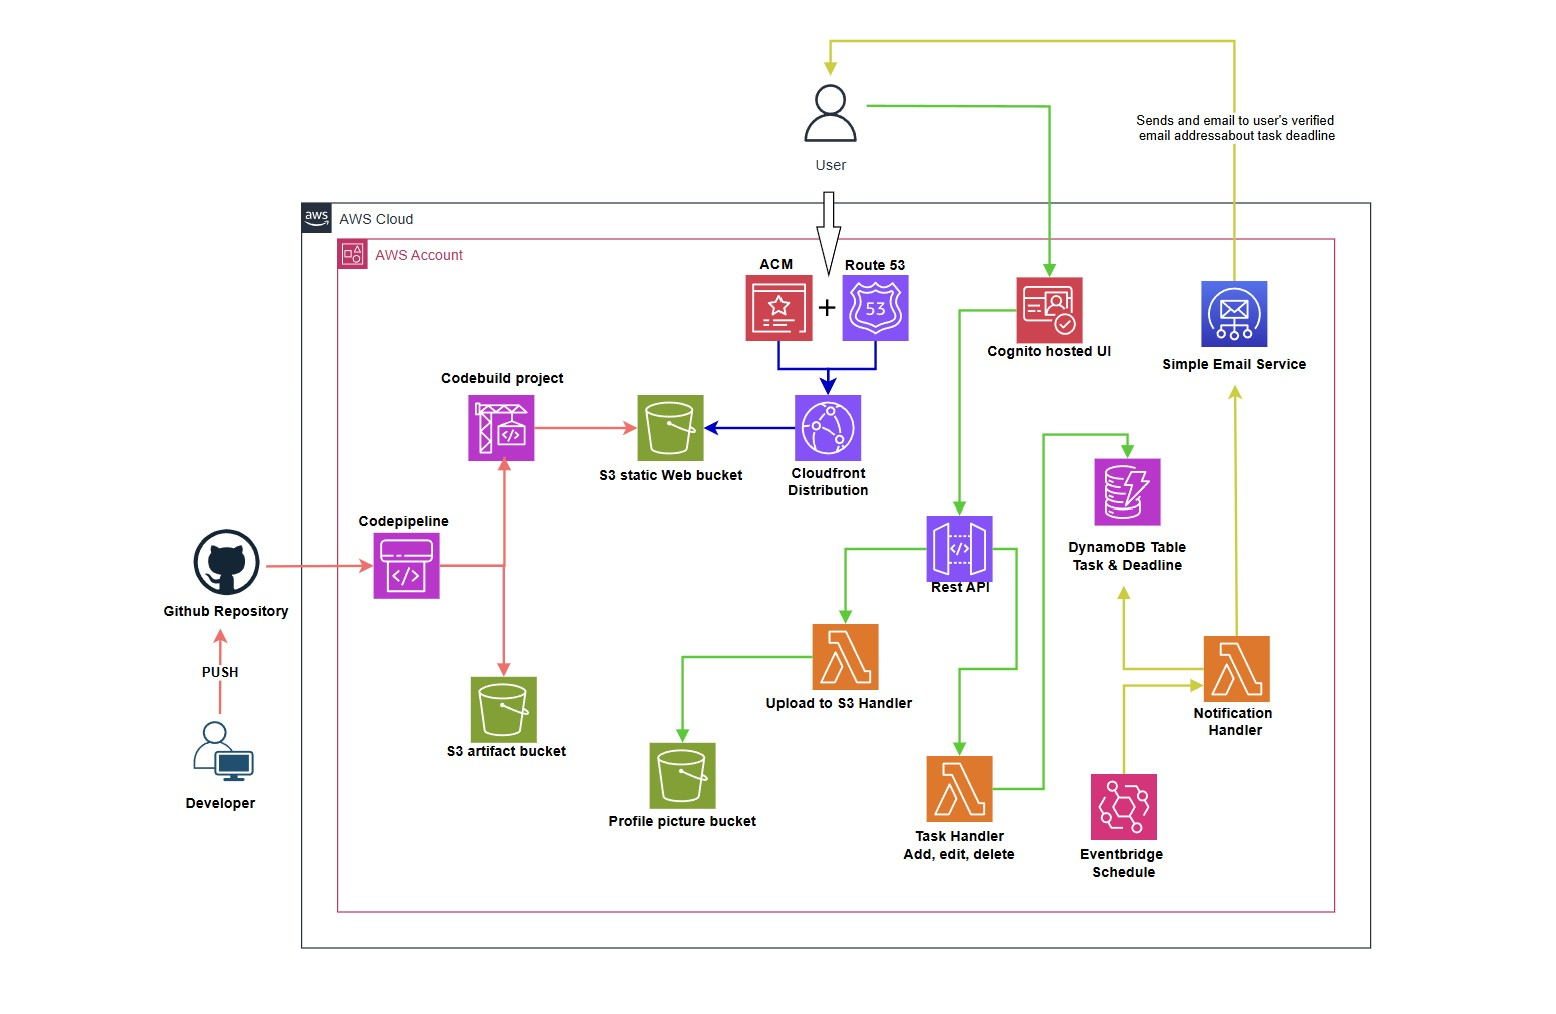
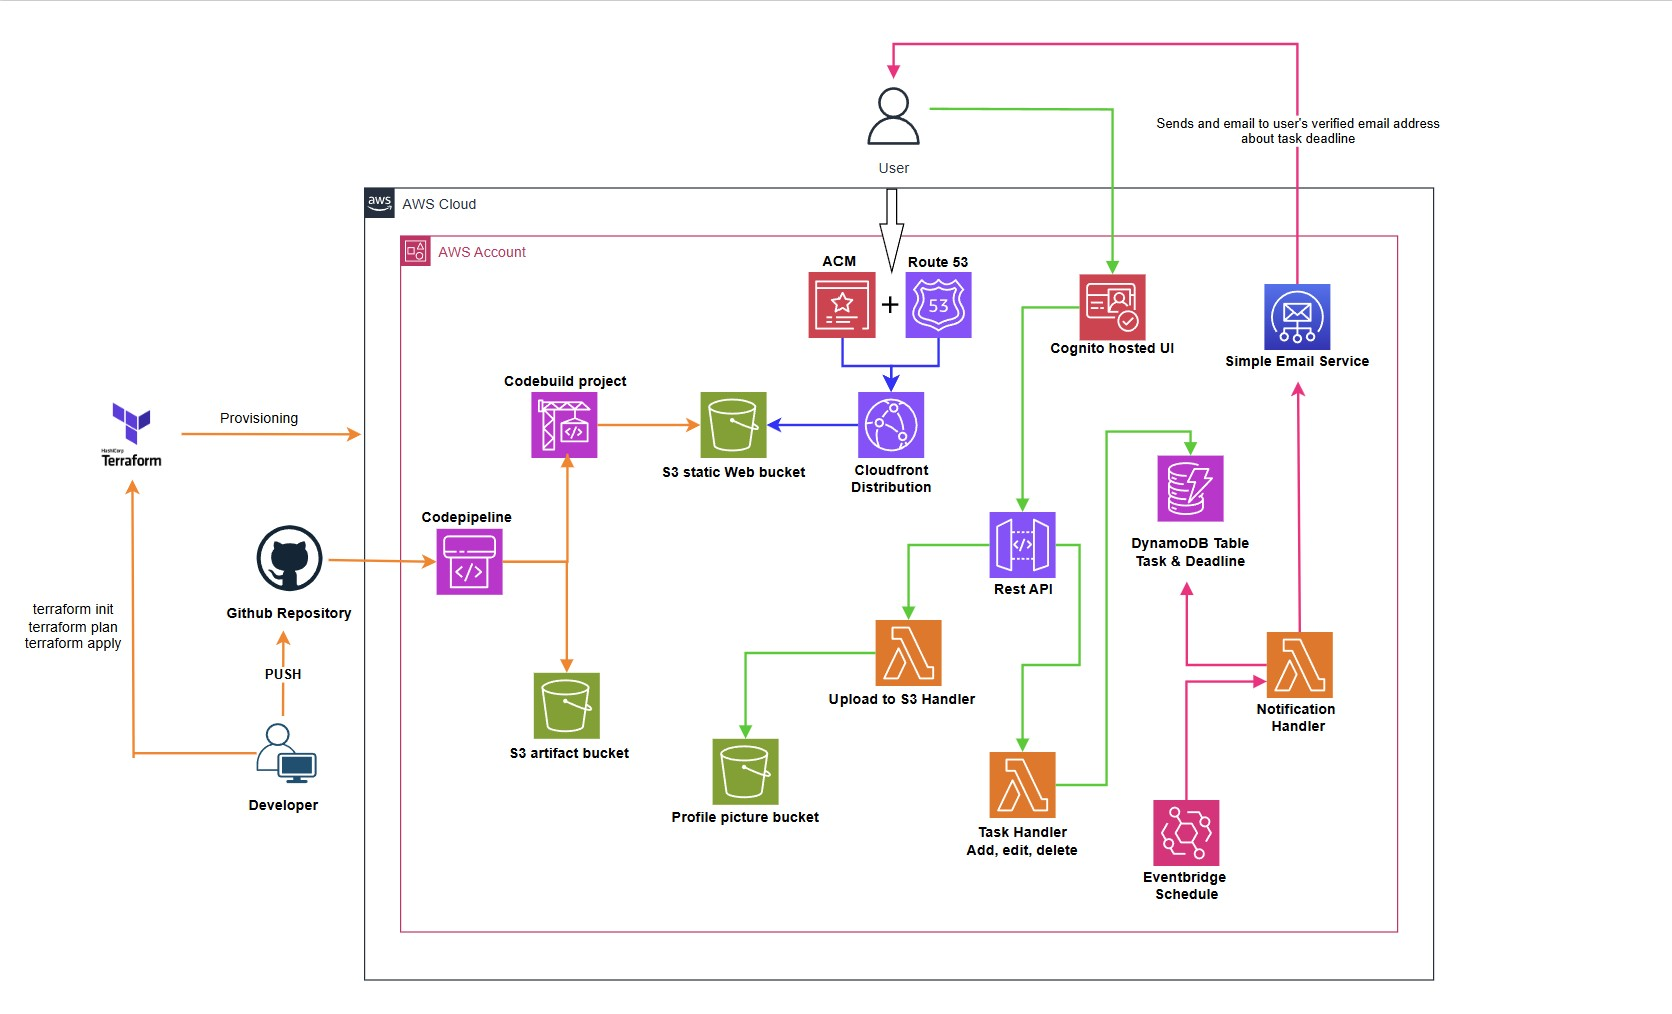
changes in readme and terraform

Changed region(s): [[0.0, 0.0306, 0.8638, 0.9477], [0.0617, 0.3974, 0.0925, 0.4892]]

diff --git a/README.md b/README.md
@@ -71,29 +71,71 @@ git clone https://github.com/patrickneil03/TaskflowRepoApp.git
 
 
 2. Configure Terraform
-Update variables (bucket names, domain, region, etc.).
+Update your Terraform variable files such as terraform.tfvars and secrets.auth.tfvars.
 
-3. Deploy Infrastructure
+terraform.tfvars contains general infrastructure configurations.
+
+secrets.auth.tfvars should contain sensitive auth secrets such as:
+facebook_app_id     = "your_facebook_app_id"
+facebook_app_secret = "your_facebook_app_secret"
+google_client_id    = "your_google_client_id"
+google_client_secret = "your_google_client_secret"
+codestar_connection_arn ="your_codestarconnection_arn"
+
+3. Create Google & Facebook Identity Providers for Cognito
+🔵 Google
+Go to Google Cloud Console
+
+Create or select a project.
+
+Go to APIs & Services > Credentials
+
+Create an OAuth 2.0 Client ID
+
+Application type: Web Application
+
+Authorized redirect URI:
+https://<your_cognito_domain>/oauth2/idpresponse
+
+Copy the Client ID and Client Secret
+
+Add them to secrets.auth.tfvars
+
+🔵 Facebook
+Go to Facebook for Developers
+
+Create an App
+
+Navigate to Facebook Login > Settings
+
+Add the Valid OAuth Redirect URIs:
+https://<your_cognito_domain>/oauth2/idpresponse
+
+Go to Settings > Basic to get the App ID and App Secret
+
+Add them to secrets.auth.tfvars
+
+4. Deploy Infrastructure
 cd terraform/
 terraform init
 terraform plan   # Review planned changes
 terraform apply  # Provision infrastructure
 
 4. Push Frontend Code to GitHub
-Push to the main branch
+git add .
+git commit -m "Initial deployment"
+git push origin main
 
-CodePipeline triggers CodeBuild
+This triggers AWS CodePipeline, which builds and deploys the frontend via CodeBuild.
 
-## 🔐 Security
-IAM policies follow least privilege best practices
-
-Cognito secures API access via tokens
-
-Profile uploads are per-user private in S3
-
-HTTPS via ACM protects all public traffic
-
-Lambda roles are tightly scoped.
+## 🔐 Security  
+- **IAM least privilege** – Strict permissions for all roles and services  
+- **Cognito token auth** – API access secured via JWT validation  
+- **S3 pre-signed URLs** – Profile uploads/fetches use temporary, scoped links (no public S3 access)  
+- **HTTPS enforcement** – ACM-managed certificates for all endpoints  
+- **Lambda minimal permissions** – Execution roles scoped to required resources only  
+- **CloudFront OAC** – S3 bucket accessible *only* via CloudFront (no direct access)  
+- **API Gateway throttling** – Rate limiting to prevent abuse (DoS protection)  
 
 ## 📚 Learning Highlights
 This project helped me develop and demonstrate skills in:
